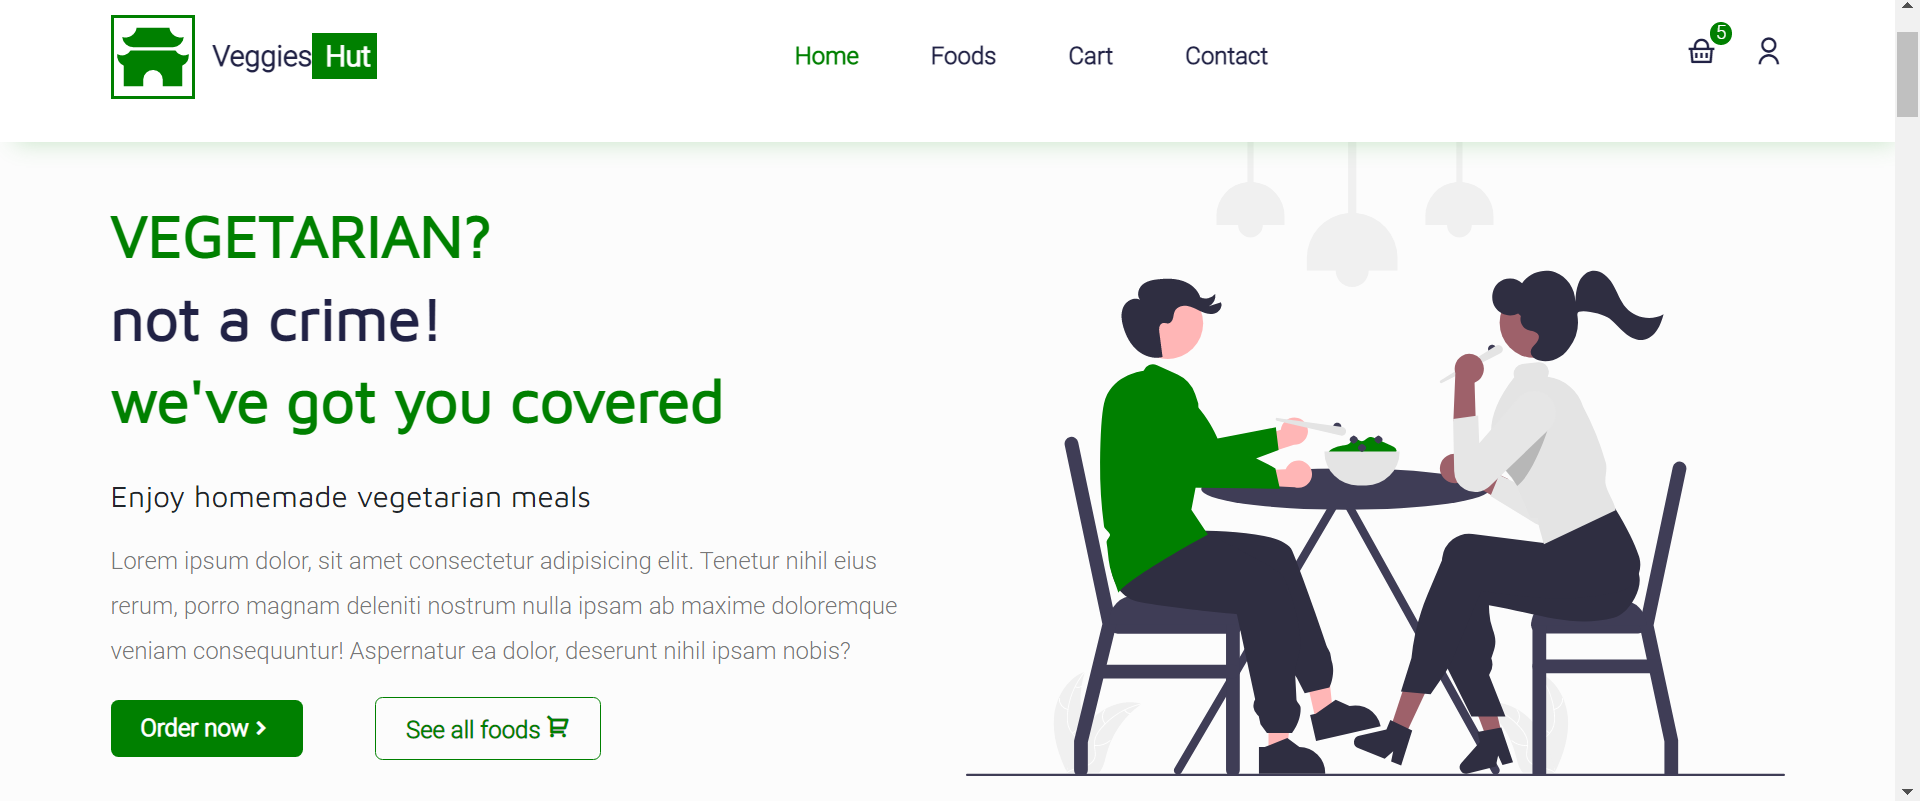
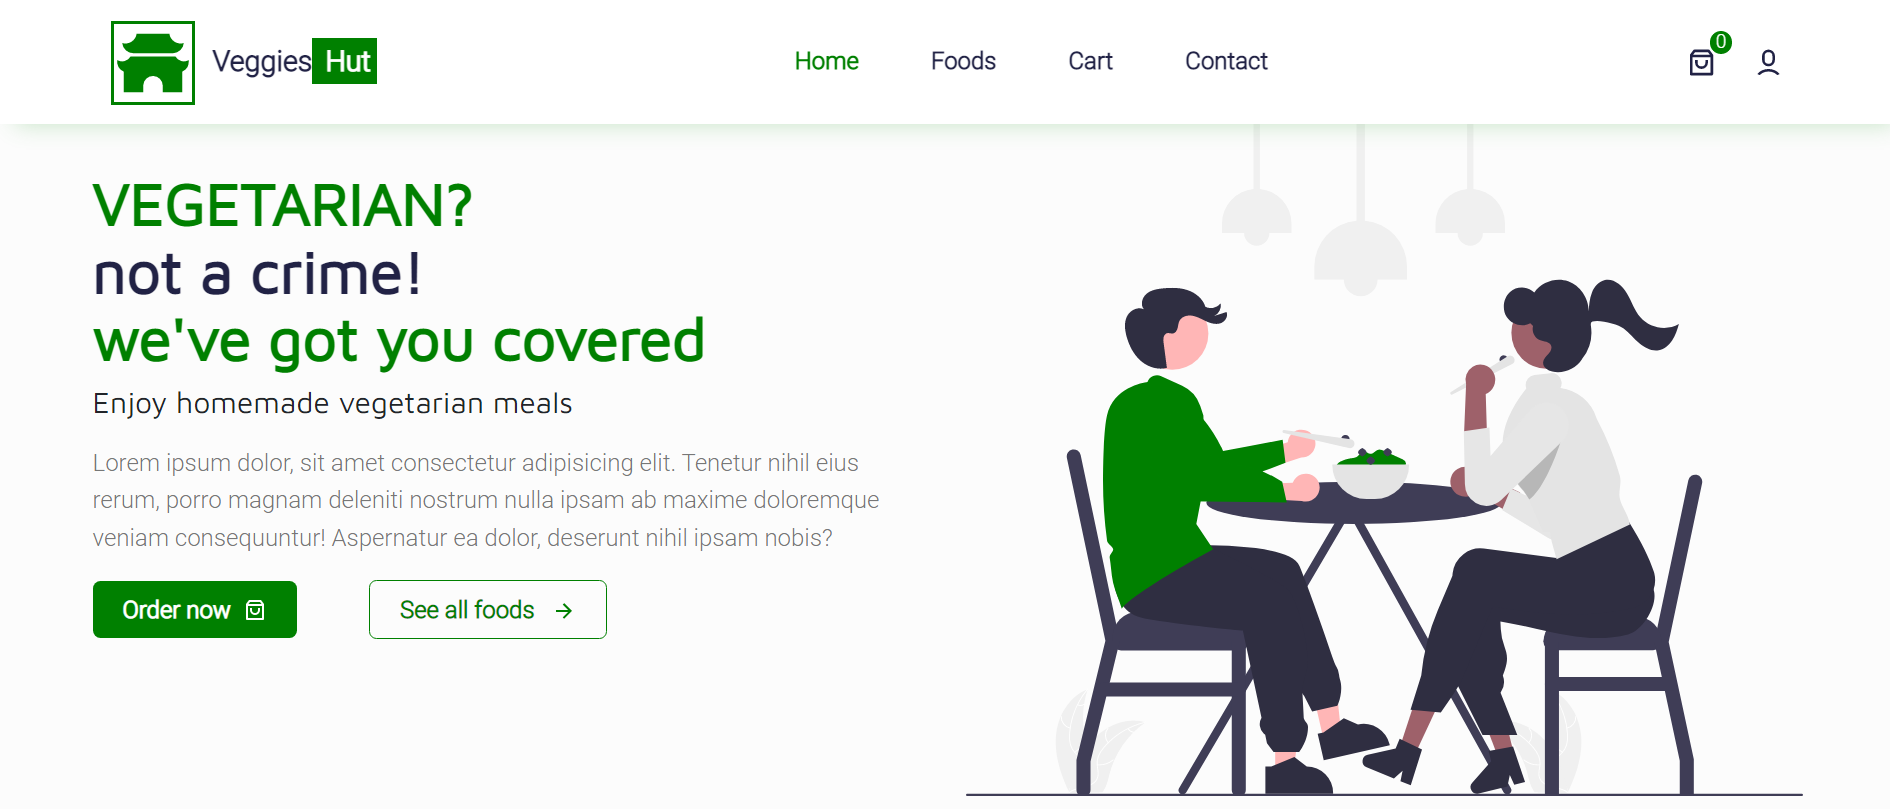
Minor updates to Herosection UI

diff --git a/src/pages/Home.jsx b/src/pages/Home.jsx
@@ -2,7 +2,14 @@ import React, { useState, useEffect } from 'react'
 import Helmet from '../components/Helmet/Helmet'
 import { Container, Col, Row, ListGroup, ListGroupItem } from 'reactstrap'
 import { Link } from 'react-router-dom'
-import { RiWallet2Line, RiEmpathizeLine, RiCurrencyLine } from 'react-icons/ri'
+import {
+  RiWallet2Line,
+  RiEmpathizeLine,
+  RiCurrencyLine,
+  RiArrowRightLine,
+  RiCheckboxCircleLine,
+  RiShoppingBag3Line,
+} from 'react-icons/ri'
 
 import heroImg from '../assets/images/hero.svg'
 import '../styles/hero-section.scss'
@@ -69,12 +76,12 @@ const Home = () => {
 
   return (
     <Helmet title="Home">
-      <section>
-        <Container>
+      <section className="home__banner">
+        <Container className="p-0">
           <Row>
             <Col lg="6" md="6">
               <div className="hero__content">
-                <h1 className="mb-4 hero-tittle">
+                <h1 className="mb-2 hero-tittle">
                   <span>VEGETARIAN?</span> <br />
                   not a crime!
                   <span>
@@ -92,11 +99,12 @@ const Home = () => {
 
                 <div className="hero__btns align-items-center gap-5 d-flex">
                   <button className="d-flex order__btn align-items-center justify-content-between">
-                    Order now<i class="ri-arrow-right-s-line"></i>
+                    Order now
+                    <RiShoppingBag3Line />
                   </button>
                   <button className=" all__foods-btn d-flex align-items-center justify-content-between">
                     <Link to="/allfoods">
-                      See all foods <i class="ri-shopping-cart-2-line"></i>
+                      See all foods <RiArrowRightLine />
                     </Link>
                   </button>
                 </div>
@@ -129,7 +137,7 @@ const Home = () => {
 
                 <ListGroup>
                   <ListGroupItem className="border-0 ps-0">
-                    <i class="ri-checkbox-circle-line"></i>
+                    <RiCheckboxCircleLine />
                     Fresh homemade foods
                     <p>
                       Lorem ipsum dolor sit, amet consectetur adipisicing elit.
@@ -137,7 +145,7 @@ const Home = () => {
                     </p>
                   </ListGroupItem>
                   <ListGroupItem className="border-0 ps-0">
-                    <i class="ri-checkbox-circle-line"></i>
+                    <RiCheckboxCircleLine />
                     Fast & reliable deliveries
                     <p>
                       Lorem ipsum dolor sit, amet consectetur adipisicing elit.
@@ -145,7 +153,7 @@ const Home = () => {
                     </p>
                   </ListGroupItem>
                   <ListGroupItem className="border-0 ps-0">
-                    <i class="ri-checkbox-circle-line"></i>
+                    <RiCheckboxCircleLine />
                     Qaulity and friendly support
                     <p>
                       Lorem ipsum dolor sit, amet consectetur adipisicing elit.

diff --git a/src/components/Header/Header.jsx b/src/components/Header/Header.jsx
@@ -3,7 +3,7 @@ import { Container } from 'reactstrap'
 import '../../styles/header.scss'
 import logo from '../../assets/images/veggiesHutlogo.svg'
 import { NavLink, Link } from 'react-router-dom'
-
+import { RiUser6Line, RiMenuLine, RiShoppingBag3Line } from 'react-icons/ri'
 import { useSelector, useDispatch } from 'react-redux'
 
 import { cartUiActions } from '../../store/shopping-cart/cartUislice'
@@ -88,17 +88,17 @@ const Header = () => {
           {/* =============  Nav Right Icons  ============== */}
           <div className="nav__right d-flex align-items-center gap-4">
             <span className="cart__icon" onClick={toggleCart}>
-              <i class="ri-shopping-basket-line"></i>
+              <RiShoppingBag3Line />
               <span className="cart__badge">{totalQuantity}</span>
             </span>
 
             <span className="user">
               <Link to="/login">
-                <i class="ri-user-line"></i>
+                <RiUser6Line />
               </Link>
             </span>
             <span className="mobile__menu" onClick={toggleMenu}>
-              <i class="ri-menu-line"></i>
+              <RiMenuLine />
             </span>
           </div>
           {/* =============  Nav Right Icons  ============== */}

diff --git a/src/styles/hero-section.scss b/src/styles/hero-section.scss
@@ -1,10 +1,10 @@
 .hero__content {
-  padding-top: 70px;
+  padding-top: 50px;
 }
 
 .hero-tittle {
   font-size: 2.5rem;
-  line-height: 55px;
+  line-height: 45px;
 }
 
 .hero-tittle span {
@@ -13,7 +13,7 @@
 
 .hero__content p {
   font-size: 1rem;
-  line-height: 30px;
+  line-height: 25px;
   color: var(--gray-color);
 }
 
@@ -24,21 +24,33 @@
   border-radius: 5px;
   cursor: pointer;
   font-weight: 600;
+  transition: all 0.3s ease;
+}
+.hero__btns button:hover {
+  padding: 7px 25px;
+}
+.hero__btns button svg {
+  margin-left: 8px;
 }
 
 .order__btn {
   background: var(--main-color);
   color: var(--white-color);
-  transition: all 0.3s ease;
 }
 
 .order__btn:hover {
-  background: var(--light-text-color-3);
+  border: 1px solid var(--main-color) !important;
+  background: transparent;
+  color: var(--main-color);
 }
 
 .all__foods-btn {
+  color: var(--main-color) !important;
   background: transparent;
   border: 1px solid var(--main-color) !important;
+}
+.all__foods-btn:hover a {
+  color: var(--main-color) !important;
 }
 
 .all__foods-btn a {

diff --git a/src/styles/header.scss b/src/styles/header.scss
@@ -1,6 +1,7 @@
 .header {
   width: 100%;
-  height: 100px;
+  // height: 100px;
+  padding: 2px 0;
   line-height: 80px;
 }
 
@@ -49,9 +50,9 @@
   color: var(--main-color) !important;
 }
 
-.cart__icon i,
-.user i,
-.mobile__menu i {
+.cart__icon svg,
+.user svg,
+.mobile__menu svg {
   font-size: 1.3rem;
   color: var(--light-text-color-3);
   cursor: pointer;
@@ -146,8 +147,9 @@
 
 @media screen and (max-width: 768px) {
   .header {
-    width: 100%;
-    height: 50px;
+    width: 100% !important;
+    // height: 50px;
+    padding: 12px 0;
     line-height: 50px;
   }
 

diff --git a/src/routes/Routers.js b/src/routes/Routers.js
@@ -8,6 +8,7 @@ import FoodDetails from "../pages/FoodDetails"
 import Home from "../pages/Home"
 import Login from "../pages/Login"
 import Register from "../pages/Register"
+
 const Routers = () => {
     return (
         <Routes>

diff --git a/src/defaults.scss b/src/defaults.scss
@@ -40,5 +40,5 @@ h2 {
 }
 
 section {
-  padding: 60px 0px;
+  padding: 20px 0px;
 }

diff --git a/README.md b/README.md
@@ -2,12 +2,9 @@
 
 # VeggiesHut
 
-clear
-git
-
 ## Preview Application
 
-- https:// .netlify.app
+- https:// veggieshut.netlify.app
 
 ## Feautures Include
 
